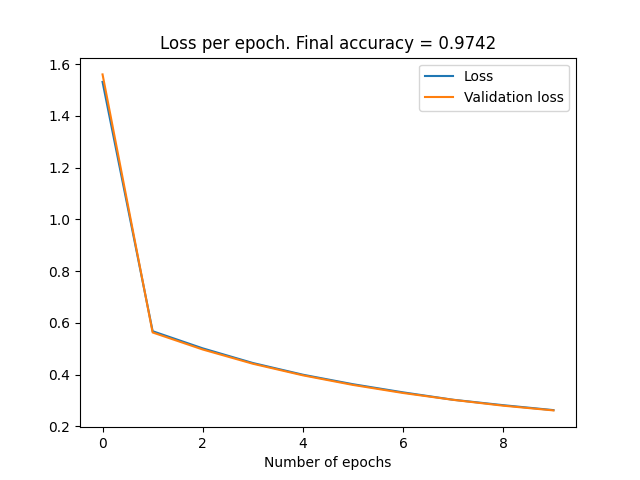
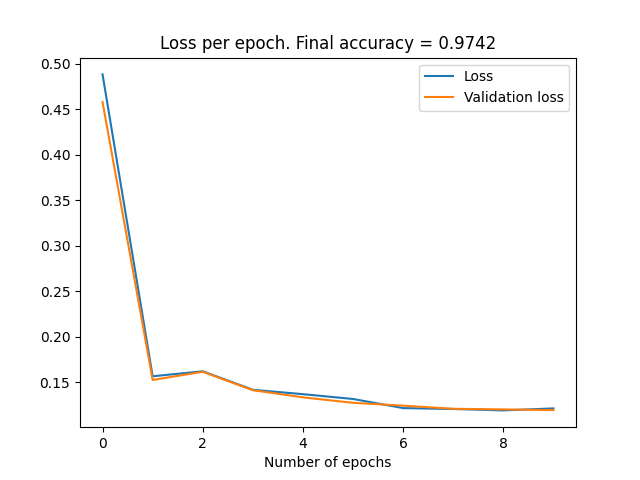
normalised data

diff --git a/main.py b/main.py
@@ -18,92 +18,92 @@ from sklearn.preprocessing import MinMaxScaler
 
 
 CARD_BRAND = {
-    'MasterCard': 0,
-    'Visa': 1,
-    'Discover': 2,
-    'AMEX': 3
+    'MasterCard': 0.33,
+    'Visa': 0.0,
+    'Discover': 1.0,
+    'AMEX': 0.66
 }
 
 TRANSACTION_TYPE = {
-    'Purchase': 0,
-    'Cash Advance/Withdrawal': 1,
-    'Refund': 2,
-    'Purchase with cashback': 3
+    'Purchase': 0.0,
+    'Cash Advance/Withdrawal': 0.33,
+    'Refund': 1.0,
+    'Purchase with cashback': 0.66
 }
 
 TRANSACTION_STATUS = {
-    'Settled': 0,
-    'Captured': 1,
-    'Rejected': 2,
-    'Authorized': 3
+    'Settled': 0.33,
+    'Captured': 1.0,
+    'Rejected': 0,
+    'Authorized': 0.66
 }
 
 TRANSACTION_CURRENCY = {
-    'USD': 0,
-    'GBP': 1,
-    'EUR': 2,
-    'JPY': 3,
-    'CHF': 4,
-    'CAD': 5,
-    'HKD': 6,
-    'CNY': 7,
-    'AED': 8,
-    'RON': 9,
-    'MDL': 10
+    'JPY': 0.0,
+    'MDL': 0.1,
+    'CAD': 0.2,
+    'CHF': 0.3,
+    'CNY': 0.4,
+    'HKD': 0.5,
+    'USD': 0.6,
+    'AED': 0.7,
+    'EUR': 0.8,
+    'GBP': 0.9,
+    'RON': 1.0
 }
 
 CARD_COUNTRY_CODE = {
-    'SA': 0,
-    'CA': 1,
-    'US': 2,
-    'BE': 3,
-    'FR': 4,
-    'GB': 5,
-    'DE': 6,
-    'NO': 7,
-    'AE': 8,
-    'FI': 9,
-    'RO': 10,
-    'HR': 11,
-    'DK': 12,
-    'BT': 13
+    'CA': 0,
+    'US': 0.07,
+    'DE': 0.14,
+    'SA': 0.21,
+    'BT': 0.28,
+    'HR': 0.35,
+    'FI': 0.42,
+    'NO': 0.49,
+    'AE': 0.56,
+    'BE': 0.63,
+    'GB': 0.70,
+    'FR': 0.77,
+    'DK': 0.84,
+    'RO': 1.0,
 }
 
 IS_RECURRING_TRANSACTION = {
-    'False': 0,
-    'True': 1
+    'False': 0.0,
+    'True': 1.0
 }
 
 ACQUIRER_ID = {
-    'ACQ1': 0,
-    'ACQ2': 1,
-    'ACQ3': 2,
-    'ACQ4': 3,
-    'ACQ6': 4,
-    'ACQ5': 5
+    'ACQ2': 0.0,
+    'ACQ1': 0.2,
+    'ACQ4': 0.4,
+    'ACQ3': 0.6,
+    'ACQ6': 0.8,
+    'ACQ5': 1.0
 }
 
 CARDHOLDER_AUTH_METHOD = {
-    'Online PIN': 0,
-    'Signature': 1,
-    'Offline plaintext PIN': 2,
-    'Offline enciphered PIN and signature': 3,
-    'Offline enciphered PIN': 4,
-    'No CVM performed': 5,
-    'Offline plaintext PIN and signature': 6
+    'Offline enciphered PIN': 0.0,
+    'Online PIN': 0.17,
+    'Offline enciphered PIN and signature': 0.34,
+    'Signature': 0.51,
+    'Offline plaintext PIN': 0.68,
+    'Offline plaintext PIN and signature': 0.85,
+    'No CVM performed': 1.0,
 }
 
 BUSINESS_TYPE = {
-    'Sole Proprietorships': 0,
-    'Limited Liability Company (LLC)': 1,
-    'S Corporations': 2,
-    'Corporations': 3
+    'S Corporations': 1.0,
+    'Sole Proprietorships': 0.66,
+    'Limited Liability Company (LLC)': 0.33,
+    'Corporations': 0.0
 }
 
 OUTLET_TYPE = {
-    'Face to Face': 0,
-    'Face to Face and Ecommerce': 1,
-    'Ecommerce': 2
+    'Face to Face': 1.0,
+    'Face to Face and Ecommerce': 0.5,
+    'Ecommerce': 0.0
 }
 
 
@@ -260,8 +260,10 @@ def clean_transactions_data(filename):
     # merged_data_customer.drop(columns=['CUSTOMER_ID'], inplace=True)
 
     # Distance from customer and terminal coordinate
-    merged_data_customer['DISTANCE'] = np.sqrt((merged_data_customer['x_customer_id'] - merged_data_customer['x_terminal_id']) ** 2 +
-                                               (merged_data_customer['y_customer_id'] - merged_data_customer['y_terminal__id']) ** 2)
+    merged_data_customer['DISTANCE'] = np.sqrt((merged_data_customer['x_customer_id']) ** 2 +
+                                               (merged_data_customer['y_customer_id']) ** 2)
+    max_distance = merged_data_customer['DISTANCE'].max()
+    merged_data_customer['DISTANCE'] = merged_data_customer['DISTANCE'] / max_distance
 
     # Drop the customer id and terminal id
     merged_data_customer.drop(columns=['x_customer_id'], inplace=True)
@@ -529,6 +531,7 @@ def test_model(cols_to_use, model):
     data_test_original = load_and_clean_data(data_filename)
     print(data_test_original.columns)
 
+
     # Extracting columns model needs
     data_test = data_test_original[cols_to_use]
     print(data_test.columns)
@@ -633,9 +636,8 @@ def my_neural_network(X, y, data_test):
         print(f'Validation loss: {val_loss.item()}')
         validation_epoch.append(val_loss.item())
 
-    # Compute accuracy (no_grad is optional)
-    with torch.no_grad():
-        y_pred = model(X)
+    # Compute accuracy
+    y_pred = model(X)
     accuracy = ((y_pred >= 0.5).float() == y).float().mean()
     print(f"Accuracy {accuracy.item()}")
 
@@ -691,10 +693,12 @@ def my_neural_network(X, y, data_test):
 
 def detect_fraud():
     print("LOADING DATA")
-    # """
+
     data_filename = 'data/transactions_train.csv'
     data = load_and_clean_data(data_filename)
+    # return
 
+    # """
 
     # return
     # print(len(data))
@@ -717,11 +721,17 @@ def detect_fraud():
     # Test dataset
     data_filename = 'data/transactions_test.csv'
     data_test_original = load_and_clean_data(data_filename)
-
+    
     # Saving the cleaned data to csv
     X.to_csv('data/X_cleaned.csv', index=False)
     data_test_original.to_csv('data/data_test_cleaned.csv', index=False)
     y.to_csv('data/y_cleaned.csv', index=False)
+    # """
+
+    # Reading cleaned data
+    # X = pd.read_csv('data/X_cleaned.csv')
+    # data_test_original = pd.read_csv('data/data_test_cleaned.csv')
+    # y = pd.read_csv('data/y_cleaned.csv')
 
     # return
 
@@ -743,12 +753,12 @@ def detect_fraud():
                         'ACTIVE_FROM_YEAR', 'TRADING_FROM_DAY', 'TRADING_FROM_MONTH', 'TRADING_FROM_YEAR',
                         'DISTANCE', 'CUSTOMER_ID']
     cols_to_use = [
-                    'DISTANCE', 'TX_AMOUNT', 'CUSTOMER_ID',
-                    'CARD_BRAND', 'TRANSACTION_TYPE', 'TRANSACTION_STATUS', 'TRANSACTION_CURRENCY',
-                    'CARD_COUNTRY_CODE', 'IS_RECURRING_TRANSACTION', 'ACQUIRER_ID',
-                    'BUSINESS_TYPE', 'OUTLET_TYPE',
+                    # 'DISTANCE', 'TX_AMOUNT',
+                    # 'CARD_BRAND', 'TRANSACTION_TYPE', 'TRANSACTION_STATUS', 'TRANSACTION_CURRENCY',
+                    # 'CARD_COUNTRY_CODE', 'IS_RECURRING_TRANSACTION', 'ACQUIRER_ID',
+                    # 'BUSINESS_TYPE', 'OUTLET_TYPE',
                     'TX_DAY_OF_WEEK',
-                    'CARD_EXPIRY_MONTH', 'CARD_EXPIRY_YEAR',
+                    # 'CARD_EXPIRY_MONTH', 'CARD_EXPIRY_YEAR',
                    ]
     X = X[cols_to_use]
     # print("")
@@ -760,12 +770,6 @@ def detect_fraud():
     data_test = data_test_original[cols_to_use]
     print(data_test.columns)
     print(data_test.head())
-    # """
-
-    # Reading cleaned data
-    # X = pd.read_csv('data/X_cleaned.csv')
-    # data_test = pd.read_csv('data/data_test_cleaned.csv')
-    # y = pd.read_csv('data/y_cleaned.csv')
 
     my_neural_network(X.to_numpy(), y.to_numpy(), data_test.to_numpy())
 
